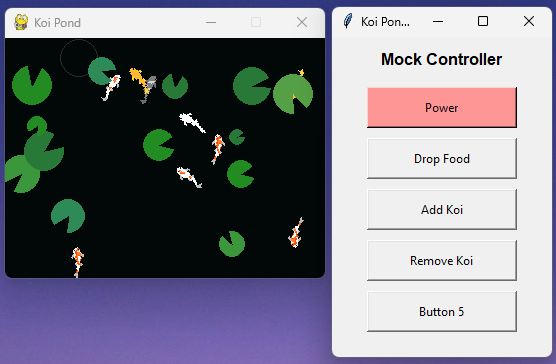
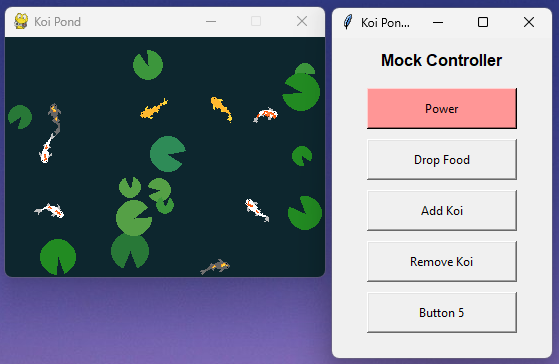
Release v1.1.0 - Added fish turning animations, fixed animation frame bug, and added pond water color

diff --git a/src/koipond/main.py b/src/koipond/main.py
@@ -44,13 +44,33 @@ def load_all_koi_sprites(base_dir, filenames, frame_count):
   return sprites
 
 koi_sprites = load_all_koi_sprites(BASE_DIR, FISH_COLORS, 8)
+TURN_FILES = {
+  "plain_white_fish.png": "plain_white_turnR.png",
+  "plain_orange_fish.png": "plain_orange_fish_turnR.png",
+  "black_gold_fish.png": "black_gold_fish_turnR.png",
+  "black_white_fish.png": "black_white_fish_turnR.png",
+  "white_orange_fish_1.png": "white_orange_fish_1_turnR.png",
+  "white_orange_fish_2.png": "white_orange_fish_2_turnR.png",
+}
+TURN_FRAME_COUNT = 7
+BEND_FULL_ANGLE = 1.2
+BEND_SMOOTHING = 6.0
+CURL_RISING  = {1: 1, 2: 2, 3: 3}
+CURL_FALLING = {1: 5, 2: 4, 3: 3}
+
+TURN_GAIN = 2.0
+TURN_EASE = 8.0
+MAX_TURN_SPEED = 2.5
+
+_turn_sheets = load_all_koi_sprites(BASE_DIR, TURN_FILES.values(), TURN_FRAME_COUNT)
+koi_turn_sprites = {color: _turn_sheets[f] for color, f in TURN_FILES.items()}
 
 ui_manager = pygame_gui.UIManager((WIDTH,HEIGHT))
 
 clock = pygame.time.Clock()
 is_running = True
 
-BG_COLOR = (2,7,7)
+BG_COLOR = (13,38,46)
 
 LILY_COLORS = [
     (34, 139, 34),
@@ -173,13 +193,22 @@ def generate_fish(count, width, height):
         'target_food': None,
         'anim_frame': 0,
         'anim_distance': 0.0,
+        'ang_vel': 0.0,
+        'bend': 0.0,
+        'bend_rising': True,
+        'turn_frame': None,
     })
   return fish
 
 
-def draw_fishes(surface, fish, koi_sprites):
-  frames = koi_sprites[fish['color']]
-  frame = frames[fish['anim_frame']]
+def draw_fishes(surface, fish, koi_sprites, koi_turn_sprites):
+  if fish['turn_frame'] is not None and fish['color'] in koi_turn_sprites:
+    frame = koi_turn_sprites[fish['color']][fish['turn_frame']]
+    if fish['bend'] < 0:
+      frame = pygame.transform.flip(frame, True, False)
+  else:
+    frames = koi_sprites[fish['color']]
+    frame = frames[fish['anim_frame'] % len(frames)]
   angle_degrees = -math.degrees(fish['angle'])
   angle_degrees -= 90
   rotated = pygame.transform.rotate(frame, angle_degrees)
@@ -227,7 +256,24 @@ def move_fish(fishes, food, time_delta, width, height):
         fish['turn_timer'] = random.uniform(1, 4)
 
     angle_diff = (fish['target_angle'] - fish['angle'] + math.pi) % math.tau - math.pi
-    fish['angle'] += angle_diff * min(1, time_delta * 1.5)
+
+    desired_vel = max(-MAX_TURN_SPEED, min(MAX_TURN_SPEED, angle_diff * TURN_GAIN))
+    fish['ang_vel'] += (desired_vel - fish['ang_vel']) * min(1, time_delta * TURN_EASE)
+    fish['angle'] += fish['ang_vel'] * time_delta
+
+    target_bend = max(-3, min(3, angle_diff / BEND_FULL_ANGLE * 3))
+    old_mag = abs(fish['bend'])
+    fish['bend'] += (target_bend - fish['bend']) * min(1, time_delta * BEND_SMOOTHING)
+    new_mag = abs(fish['bend'])
+    if abs(new_mag - old_mag) > 1e-4:
+      fish['bend_rising'] = new_mag > old_mag
+
+    level = int(new_mag + 0.5)
+    if level == 0 or fish['color'] not in koi_turn_sprites:
+      fish['turn_frame'] = None
+    else:
+      table = CURL_RISING if fish['bend_rising'] else CURL_FALLING
+      fish['turn_frame'] = table[min(level, 3)]
 
     fish['speed'] += (fish['target_speed'] - fish['speed']) * min(1, time_delta * 1.0)
 
@@ -237,11 +283,12 @@ def move_fish(fishes, food, time_delta, width, height):
     fish['y'] += dy
 
     distance_moved = math.hypot(dx, dy)
-    fish['anim_distance'] += distance_moved
-    distance_per_frame = 6
-    if fish['anim_distance'] >= distance_per_frame:
-      fish['anim_distance'] = 0
-      fish['anim_frame'] = (fish['anim_frame'] + 1) % len(koi_sprites)
+    if fish['turn_frame'] is None:
+      fish['anim_distance'] += distance_moved
+      distance_per_frame = 6
+      if fish['anim_distance'] >= distance_per_frame:
+        fish['anim_distance'] = 0
+        fish['anim_frame'] = (fish['anim_frame'] + 1) % len(koi_sprites[fish['color']])
 
     margin = fish['radius']
     if fish['x'] < margin:
@@ -352,7 +399,7 @@ while is_running:
   window_surface.fill(BG_COLOR)
 
   for fish in fishes:
-    draw_fishes(window_surface, fish, koi_sprites)
+    draw_fishes(window_surface, fish, koi_sprites, koi_turn_sprites)
 
   for ripple in ripples:
     draw_ripple(window_surface, ripple)
@@ -368,4 +415,3 @@ while is_running:
   pygame.display.update()
 
 pygame.quit()
-  
